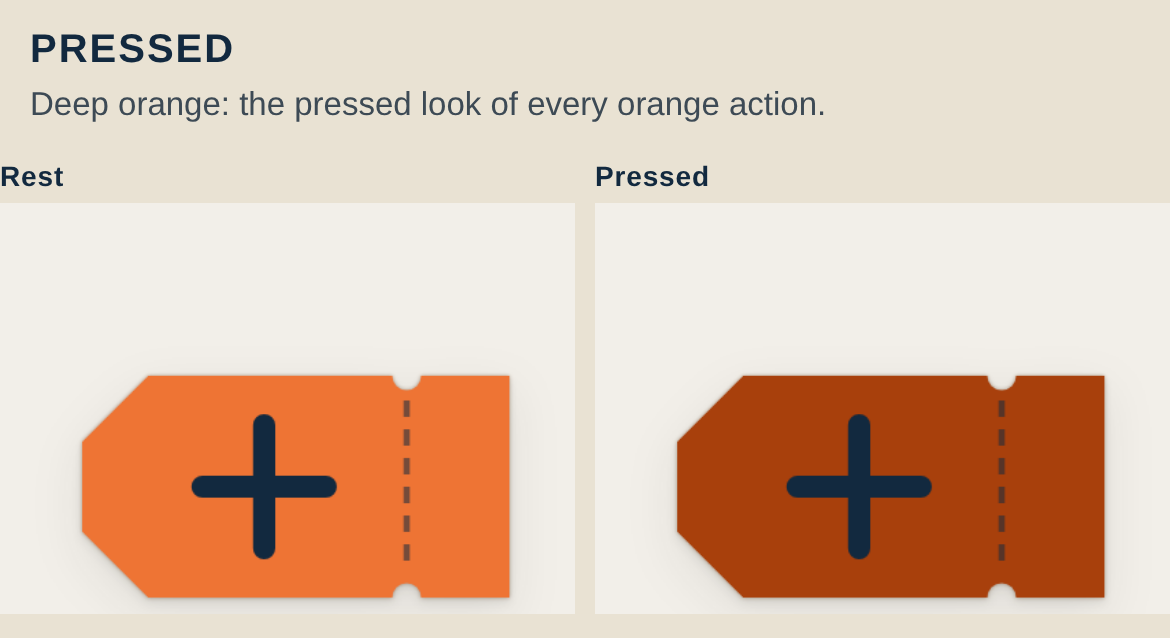
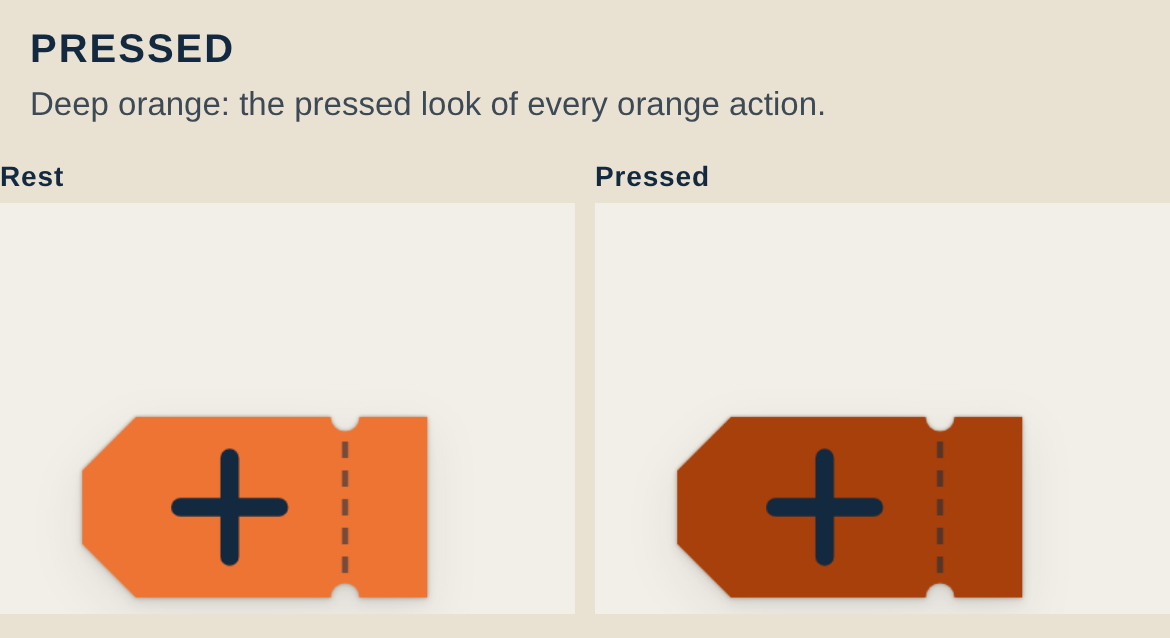
+ placement: C at 84px re-shoots, R10-F6 (visual)

diff --git a/design/add-button-placement/concepts/blank-tag-form/compose.js b/design/add-button-placement/concepts/blank-tag-form/compose.js
@@ -127,6 +127,8 @@ const pages = {
   [T + 'R10-F3-pinned-starred-3x.png']: `${cap('Starred, visited and a note', 'The orange band prints into the tag’s top on star (the tag doesn’t grow); VISITED stamps; the note is pencil until you add.')}${full(f('r10-f-pinned-starred664'))}<div class="gap"></div>`,
   [T + 'R10-F4-320-3x.png']: `${cap('Smallest phone (320 × 568)', 'Typing (not pinned yet), then pinned.')}
      <div class="row" style="gap:20px">${col('Typing', crop(f('r10-f-typing320'), 0, 0, 320, 568, 575 / 320, 320), 575)}${col('Pinned', crop(f('r10-f-pinned320'), 0, 0, 320, 568, 575 / 320, 320), 575)}</div><div class="gap"></div>`,
+  [T + 'R10-F6-add-3x.png']: `${cap('ADD', 'Left: filled in and pinned. Right: after ADD it’s the place’s own tag: the pencil inks, TYPE is stamped, and ADD becomes DIRECTIONS in the same spot under your thumb. The tag tightens from the top, so the map shifts just that little; nothing flies.')}
+     ${pair(f('r10-f-pinned664'), 'Before: tap ADD', f('r10-f-after664'), 'After: the place’s own tag', 664)}<div class="gap"></div>`,
   [T + 'R10-F5-city-3x.png']: `${cap('The city: a word you can tap', 'The city is just part of the address, with a fine underline to say it can be tapped. Tap it and your cities print on the tag; pick one. The pin doesn’t move: a city is where the place is filed, not where it is.')}
      ${pair(f('r10-f-pinned664'), 'The city word', f('r10-f-city664'), 'Tapped: your cities', 664)}<div class="gap"></div>`,
   [R10 + 'C0-two-options-3x.png']: `${cap('Two options for +', 'Left: the badge (Float). Right: the tag is the button (C). Both bottom-left, both open the same blank tag; both hide only while the filters are open.')}

diff --git a/design/add-button-placement/concepts/blank-tag-form/stills.js b/design/add-button-placement/concepts/blank-tag-form/stills.js
@@ -197,6 +197,12 @@ F['f10-tag664'] = { k: 'F', vp: V664, run: async p => { await openPlace(p, 'Brau
 F['f10-rest320'] = { k: 'F', vp: V320, zoom: true, centre: [64.1400, -21.9250], run: p => floatBadge(p, false) };
 F['f10-collapsed'] = { k: 'F', inset: true, zoom: true, centre: [64.1500, -21.9450], run: async p => { await p.click('#collapseBtn'); await p.waitForTimeout(900); await floatBadge(p, false); } };
 
+// round 10 ADD moment: the place's real tag, its stub where the pinned card's was (foot 458 at 664): the tag tightens by
+// its top and the map pans that little with it (no fly). Same +2 zoom as the pinned frames.
+F['r10-f-after664'] = { k: 'C', vp: V664, run: async p => { await openPlace(p, 'Sundhöllin', true); await cGone(p);
+  await p.evaluate(() => { const l = locations.find(l => l.name === 'Sundhöllin' && l.city === 'reykjavik'); map.setView([l.lat, l.lng], map.getZoom() + 2, { animate: false }); }); await p.waitForTimeout(700);
+  await p.evaluate(() => __BT.alignReal(458)); await p.waitForTimeout(300); } };
+
 (async () => {
   const b = await L.launch(); const meas = {}; fs.mkdirSync(path.join(C, 'raw'), { recursive: true });
   for (const [name, s] of Object.entries(F).filter(([n]) => !process.env.ONLY || process.env.ONLY.split(',').some(p => n.startsWith(p)))) {

diff --git a/design/add-button-placement/notes/visual.md b/design/add-button-placement/notes/visual.md
@@ -1,5 +1,13 @@
 # Visual designer notes -- + placement
 
+## UPDATE 2026-10-14, round 10c re-shoot at 84 + the ADD still
+- **C #7 is 84 × 44** (`TC = 'T:orange:84'`). C0-C7 re-shot.
+  - C0's caption now says "both hide only while the filters are open".
+  - C3 shows systems' measure (2.65× the account, 2.0× the Float).
+- **New `blank-tag-form/R10-F6-add-3x.png`:** pinned card | the place's
+  real tag (`r10-f-after664`: +2 zoom, `alignReal(458)`). Both stubs sit
+  at 398-458, so the tag tightens by its top with a small pan; no fly.
+
 ## UPDATE 2026-10-14, round 10c (director: Float 9, form 9, C → pick #7)
 - **C's pick is #7** (`TC = 'T:orange'`), re-shot C0-C4, C6, C7.
   - Pressed = deep orange stock.
